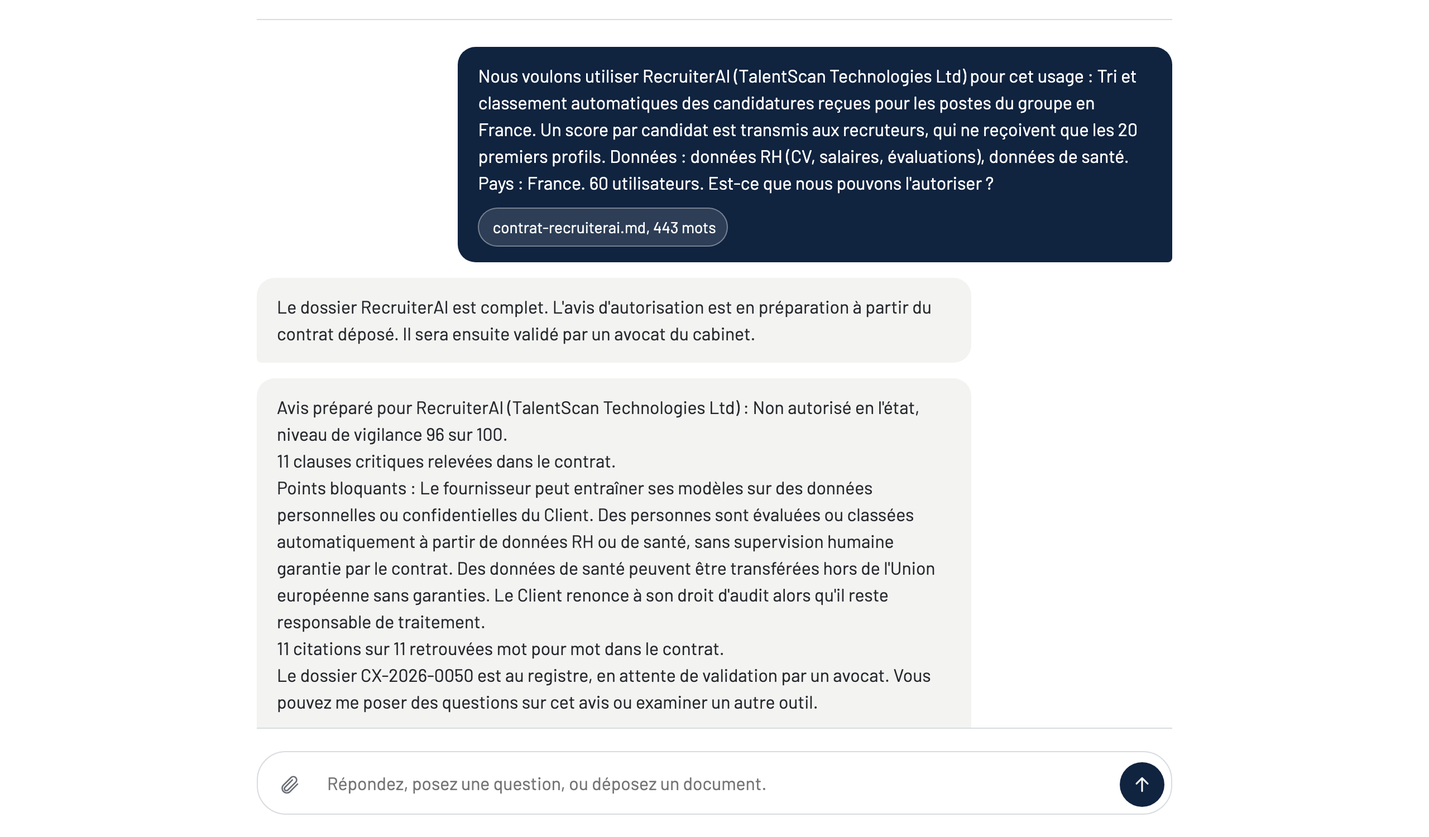
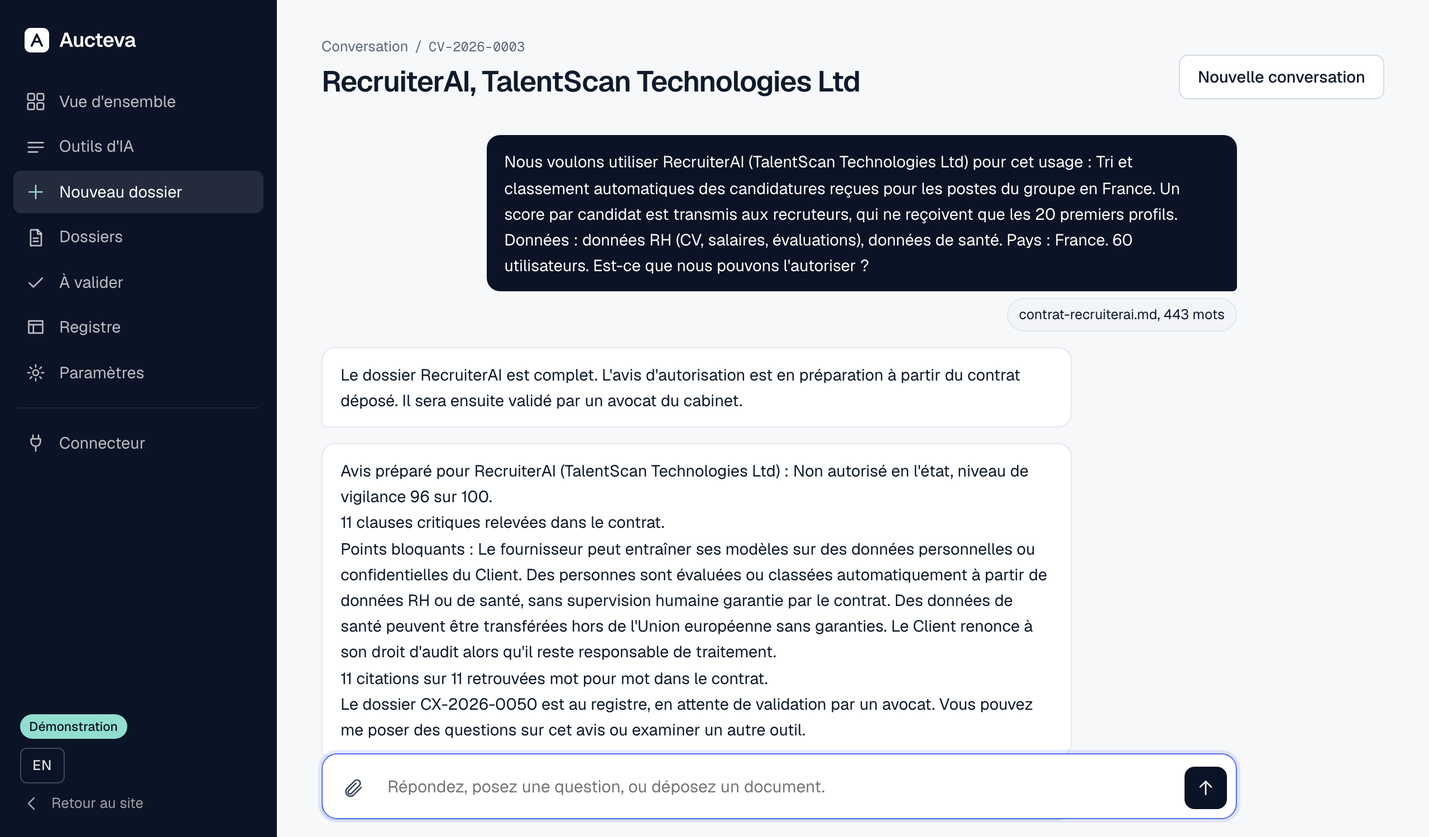
Decks et textes Agorize au nom d'Aucteva, captures de la nouvelle interface

diff --git a/deck/build.js b/deck/build.js
@@ -1,15 +1,15 @@
-// Deck « Custodix AI », Make AI Happen 2026 (KPMG), thème 3.
+// Deck « Aucteva » (anciennement Custodix AI), Make AI Happen 2026 (KPMG), thème 3.
 // Gabarit de cabinet : kicker + titre, navigation des sections en haut à droite, bandeau de pied avec logotype et numéro.
 // Formats : tableaux à filets, paragraphes à intertitres, encadrés, grille, captures de la démonstration, bouton vers la démo.
 // Aucune frise, aucune liste à puces ou à tirets, aucune icône. Un seul accent bleu nuit, pastilles sobres pour les trois issues.
-//   custodix-ai-oral.pptx    : 8 slides + 3 annexes (demi-finale)
-//   custodix-ai-agorize.pptx : 5 slides (limite du formulaire, business plan inclus)
+//   aucteva-oral.pptx    : 8 slides + 3 annexes (demi-finale)
+//   aucteva-agorize.pptx : 5 slides (limite du formulaire, business plan inclus)
 // NODE_PATH=$PWD/node_modules PPTX_SKILL=… node build.js
 const pptxgen = require("pptxgenjs");
 const fs = require("fs");
 const { applyTheme } = require(process.env.PPTX_SKILL + "/scripts/apply_theme.js");
 
-const BRAND = "Custodix AI";
+const BRAND = "Aucteva";
 const PAPER = "FFFFFF", INK = "26292E", MUTED = "6B6F76", LINE = "D9DBDF", NAVY = "10233F", SOFT = "F3F4F6", GREY = "9A9DA3";
 const GREEN = "2E5E3F", AMBER = "9A6B1E", BRICK = "8E3B2F";
 const SERIF = "Charter", BODY = "Barlow", SEMI = "Barlow SemiBold";
@@ -148,14 +148,14 @@ const ISSUES = [
   [AMBER, "Autorisé sous conditions", "des mesures ou un avenant sont nécessaires avant un déploiement élargi"],
   [BRICK, "Non autorisé en l'état", "le risque est trop élevé ou le contrat doit être modifié"],
 ];
-const POSITION = "Custodix AI ne remplace pas la gestion contractuelle ni l'avocat. Il prépare une décision d'usage, documentée et validée par un expert.";
+const POSITION = "Aucteva ne remplace pas la gestion contractuelle ni l'avocat. Il prépare une décision d'usage, documentée et validée par un expert.";
 const KPMG_PARAS = [
   ["Quatre expertises réunies", "juridique, fiscale, conformité et cybersécurité : les quatre regards d'un dossier d'autorisation, dans une même équipe."],
   ["Validation par des avocats", "l'avis engage une relecture et une validation humaines. C'est ce qui le distingue d'un questionnaire ou d'un inventaire."],
-  ["Intégration aux outils en place", "les contrats des grands comptes sont déjà centralisés dans leurs plateformes contractuelles. Custodix AI s'y branche, sans les remplacer."],
+  ["Intégration aux outils en place", "les contrats des grands comptes sont déjà centralisés dans leurs plateformes contractuelles. Aucteva s'y branche, sans les remplacer."],
   ["Déploiement multi-pays et accompagnement continu", "veille réglementaire, avenants, gouvernance et reporting, dans chaque pays où le groupe opère."],
 ];
-const KPMG_LINE = "Les plateformes contractuelles structurent les contrats. Custodix AI aide à décider comment un outil IA peut être utilisé.";
+const KPMG_LINE = "Les plateformes contractuelles structurent les contrats. Aucteva aide à décider comment un outil IA peut être utilisé.";
 const SERVICE = [
   ["Diagnostic initial", "Cartographie des outils IA déjà en usage dans le groupe et de leurs niveaux de risque. Un premier registre, en quelques semaines."],
   ["Autorisation continue", "Examen de chaque nouvel outil avant déploiement : contrat, cas d'usage, données. Un avis par outil, validé par un avocat."],
@@ -173,14 +173,14 @@ const PILOT = "Pilote proposé : trois mois, deux grands comptes, vingt outils e
 const SRC = "Source : Microsoft et LinkedIn, Work Trend Index 2024 : 78 % des utilisateurs d'IA au travail apportent leurs propres outils, sans validation de l'entreprise.";
 const CAP = {
   formulaire: "Le dossier déposé : outil, fournisseur, usage prévu, données concernées, contrat.",
-  examen: "L'examen, étape par étape : contrat, clauses, cas d'usage, RGPD et AI Act.",
-  dossier: "Le dossier d'autorisation : avis, niveau de vigilance, en attente de validation.",
-  valide: "Le même dossier une fois validé par l'avocat, avec l'identifiant de signature.",
-  risques: "Chaque risque cite la clause du contrat et l'article applicable.",
-  avenant: "L'avenant type généré à partir des clauses correctives, prêt à négocier.",
-  accueil: "L'accueil : on décrit l'outil, on dépose son contrat, l'assistant ne demande que ce qui manque.",
-  conversation: "La conversation : le dossier est déduit du contrat, l'avis arrive dans l'échange, le dossier est au registre.",
-  connecteur: "Le connecteur : chacun branche son propre assistant, les citations sont vérifiées par Custodix.",
+  examen: "L'analyse suit l'état réel du dossier : documents reçus, contenu extrait, lecture, vérification des citations.",
+  dossier: "Le dossier d'analyse : le contrat à gauche, les huit domaines de vigilance à droite, chaque passage cité surligné.",
+  valide: "Trois temps tracés : avis préparé par l'IA, validé par l'avocat, décision de l'entreprise.",
+  risques: "Chaque observation renvoie à sa clause et à sa ligne, avec ce qu'il faut vérifier et la clause corrective.",
+  avenant: "Le dossier de synthèse, exportable en PDF, avec l'avenant type prêt à négocier.",
+  accueil: "L'accueil : la promesse, et la vraie interface, calculée en direct sur un scénario.",
+  conversation: "La conversation : le dossier est déduit du contrat, l'avis arrive dans l'échange.",
+  connecteur: "Le connecteur : chacun branche son propre assistant, les citations sont vérifiées par Aucteva.",
 };
 const ENTREES = "Trois entrées : la conversation, le formulaire, ou son propre assistant par connecteur. Le contrat est lu en entier dans sa langue, chaque citation vérifiée mot pour mot ; barème, points bloquants et avis sont calculés par le cabinet. Testé sur 34 contrats réels : OpenAI, Mistral, Intercom, HubSpot, HireVue.";
 const examplesTable = (c, s, x, y, w, size = 11) => c.table(s, x, y, w, [w * 0.17, w * 0.52, w * 0.31], ["Outil", "Usage et données", "Avis"], EXAMPLES.map(([col, n, u, d, a]) => [n, `${u} (${d})`, [DOT(col), { text: a }]]), { size });
@@ -191,9 +191,9 @@ const cover = ({ add, T, rule, shot, foot }) => {
   T(s, "Make AI Happen, KPMG | Thématique 3 : cabinet d'avocats AI ready", { x: M, y: 0.8, w: 7, h: 0.3, fontSize: 11, color: MUTED });
   T(s, BRAND, { x: M, y: 1.9, w: 6.5, h: 1.1, fontFace: SERIF, fontSize: 56, color: INK });
   rule(s, M, 3.05, 1.5, NAVY, 1.5);
-  T(s, "Chaque IA passe par Custodix.", { x: M, y: 3.28, w: 6.5, h: 0.5, fontFace: SERIF, fontSize: 24, color: NAVY });
-  T(s, "Autorisation et gouvernance des outils d'intelligence artificielle en entreprise.", { x: M, y: 3.9, w: 5.8, h: 0.7, fontSize: 15, color: INK, lineSpacingMultiple: 1.3 });
-  T(s, "Un service conçu pour les directions juridiques, conformité, achats et IT.", { x: M, y: 4.62, w: 5.8, h: 0.6, fontSize: 13, color: MUTED, lineSpacingMultiple: 1.3 });
+  T(s, "Chaque outil d'IA.\nUne décision documentée.", { x: M, y: 3.25, w: 6.5, h: 0.95, fontFace: SERIF, fontSize: 24, color: NAVY, lineSpacingMultiple: 1.05 });
+  T(s, "Gouvernance juridique des outils d'intelligence artificielle en entreprise.", { x: M, y: 4.35, w: 5.8, h: 0.7, fontSize: 15, color: INK, lineSpacingMultiple: 1.3 });
+  T(s, "Un service conçu pour les directions juridiques, conformité, achats et IT.", { x: M, y: 5.05, w: 5.8, h: 0.6, fontSize: 13, color: MUTED, lineSpacingMultiple: 1.3 });
   T(s, "Préparé par Céline Lin et Tom Petit Vallois", { x: M, y: 6.3, w: 6, h: 0.3, fontSize: 12, color: INK });
   shot(s, "shots/dossier.png", 7.1, 1.9, 5.23, CAP.dossier);
   foot(s, "", 0);
@@ -225,7 +225,7 @@ const processus = ({ add, H2, LEAD, COL, table, callout, foot }, n) => {
   H2(s, "Aujourd'hui, l'autorisation d'un outil IA repose sur des échanges dispersés.", "Le processus actuel", "Problème");
   LEAD(s, "Achats, juridique, DPO et IT examinent le même dossier séparément. Il manque une vue commune, une traçabilité et une décision formalisée.", M, TOP, 9.5, 0.8, { fontSize: 14 });
   COL(s, "Ce qui change avec un service d'autorisation", M, 2.6, CW);
-  table(s, M, 3.0, CW, [CW * 0.18, CW * 0.41, CW * 0.41], ["", "Aujourd'hui", "Avec Custodix AI"], AVANT_APRES, { size: 11.5, rowH: 0.44 });
+  table(s, M, 3.0, CW, [CW * 0.18, CW * 0.41, CW * 0.41], ["", "Aujourd'hui", "Avec Aucteva"], AVANT_APRES, { size: 11.5, rowH: 0.44 });
   callout(s, M, 5.85, CW, 0.6, "Sans décision formalisée, l'outil est déployé sans réponse, ou refusé par prudence. Dans les deux cas, l'entreprise ne sait pas.", 12.5);
   foot(s, "", n);
   s.addNotes("Le processus actuel face au service : examen, traçabilité, décision, délai, suivi.");
@@ -237,7 +237,7 @@ const solution = ({ add, H2, COL, shot, table, callout, issue, foot }, n) => {
   const lw = 5.0, rx = M + lw + 0.45, rw = CW - lw - 0.45;
   const h = shot(s, "shots/examen.png", M, TOP, lw, CAP.examen);
   callout(s, M, TOP + h + 0.55, lw, BOT - (TOP + h + 0.55), POSITION, 12.5);
-  COL(s, "Ce que Custodix AI examine dans chaque contrat", rx, TOP, rw);
+  COL(s, "Ce qu'Aucteva examine dans chaque contrat", rx, TOP, rw);
   table(s, rx, TOP + 0.45, rw, [rw * 0.33, rw * 0.42, rw * 0.25], ["Sujet", "Ce qui est vérifié", "Base"], EXAMEN, { size: 9.5, headSize: 9, rowH: 0.3 });
   const iy = 5.55, iw = rw / 3;
   ISSUES.forEach(([c, l, d], i) => issue(s, rx + i * iw, iy, iw - 0.1, c, l, d, { size: 10.5, descSize: 9 }));
@@ -354,7 +354,7 @@ const problemeProcessus = ({ add, H2, LEAD, COL, paras, table, foot }, n) => {
   COL(s, "Quatre regards, en série, sur le même contrat", M, 2.95, lw);
   paras(s, M, 3.4, lw, 3.1, REGARDS, { size: 12 });
   COL(s, "Ce qui change avec un service d'autorisation", rx, TOP, rw);
-  table(s, rx, TOP + 0.45, rw, [rw * 0.2, rw * 0.4, rw * 0.4], ["", "Aujourd'hui", "Avec Custodix AI"], AVANT_APRES, { size: 10.5, rowH: 0.62 });
+  table(s, rx, TOP + 0.45, rw, [rw * 0.2, rw * 0.4, rw * 0.4], ["", "Aujourd'hui", "Avec Aucteva"], AVANT_APRES, { size: 10.5, rowH: 0.62 });
   foot(s, SRC, n);
   s.addNotes("Le problème et le processus actuel, en une slide.");
 };
@@ -394,7 +394,7 @@ const solutionAgorize = ({ add, H2, COL, shot, table, callout, issue, foot }, n)
   const lw = 5.0, rx = M + lw + 0.45, rw = CW - lw - 0.45;
   const h = shot(s, "shots/dossier.png", M, TOP, lw, CAP.dossier);
   callout(s, M, TOP + h + 0.55, lw, BOT - (TOP + h + 0.55), POSITION, 12.5);
-  COL(s, "Ce que Custodix AI examine dans chaque contrat", rx, TOP, rw);
+  COL(s, "Ce qu'Aucteva examine dans chaque contrat", rx, TOP, rw);
   table(s, rx, TOP + 0.45, rw, [rw * 0.33, rw * 0.42, rw * 0.25], ["Sujet", "Ce qui est vérifié", "Base"], EXAMEN, { size: 9.5, headSize: 9, rowH: 0.3 });
   const iy = 5.55, iw = rw / 3;
   ISSUES.forEach(([c, l, d], i) => issue(s, rx + i * iw, iy, iw - 0.1, c, l, d, { size: 10.5, descSize: 9 }));
@@ -403,7 +403,7 @@ const solutionAgorize = ({ add, H2, COL, shot, table, callout, issue, foot }, n)
 };
 
 (async () => {
-  await makeDeck("custodix-ai-oral.pptx", [cover, probleme, processus, solution, issuesSlide, kpmg, service, exemples, demoSlide, annexeRoute, annexeRisques, annexeEco], `${BRAND}, Make AI Happen 2026, thème 3, version orale`, ["Problème", "Solution", "Pourquoi KPMG", "Modèle de service", "Démonstration", "Annexes"]);
-  await makeDeck("custodix-ai-agorize.pptx", [cover, problemeProcessus, solutionAgorize, kpmgService, demoAgorize], `${BRAND}, Make AI Happen 2026, thème 3`, ["Problème", "Solution", "KPMG et modèle de service", "Démonstration"]);
+  await makeDeck("aucteva-oral.pptx", [cover, probleme, processus, solution, issuesSlide, kpmg, service, exemples, demoSlide, annexeRoute, annexeRisques, annexeEco], `${BRAND}, Make AI Happen 2026, thème 3, version orale`, ["Problème", "Solution", "Pourquoi KPMG", "Modèle de service", "Démonstration", "Annexes"]);
+  await makeDeck("aucteva-agorize.pptx", [cover, problemeProcessus, solutionAgorize, kpmgService, demoAgorize], `${BRAND}, Make AI Happen 2026, thème 3`, ["Problème", "Solution", "KPMG et modèle de service", "Démonstration"]);
   fs.writeFileSync("link-positions.json", JSON.stringify(positions, null, 2));
 })();

diff --git a/deck/shots.js b/deck/shots.js
@@ -1,66 +1,68 @@
-// Captures de la démonstration en ligne pour le deck, en 2x. NODE_PATH=~/gererseul-guide/node_modules node shots.js
-// Le pont (lecture intégrale) doit être en ligne : la conversation et l'examen attendent l'avis jusqu'à trois minutes.
+// Captures de la démonstration en ligne (Aucteva) pour les decks, en 2x. NODE_PATH=~/gererseul-guide/node_modules node shots.js
+// Dossier de référence : RecruiterAI ouvert par conversation (CV-2026-0003 → CX-2026-0050), lu en intégralité.
+// L'examen en cours se capture sur une lecture intégrale lancée depuis la page démo (le lecteur doit être en ligne).
 const { chromium } = require("playwright");
 const URL = "https://custodix-ai.gererseul-avis-worker.workers.dev/";
-const VP = { width: 1280, height: 750 }; // 1280x750 → ratio 1,707
+const CONV = "CV-2026-0003", ID = "CX-2026-0050";
+const VP = { width: 1280, height: 750 }; // ratio 1,707, celui des cadres du deck
 (async () => {
   const browser = await chromium.launch();
   const page = await browser.newPage({ viewport: VP, deviceScaleFactor: 2 });
-  await page.goto(URL + "#/", { waitUntil: "networkidle" });
-  await page.waitForTimeout(1200);
+  await page.addInitScript(() => { try { localStorage.setItem("aucteva.lang", "fr"); } catch {} });
+  const go = async (h, wait = 1500) => { await page.goto(URL + h, { waitUntil: "networkidle" }); await page.waitForTimeout(wait); };
+
+  await go("#/", 1800);
   await page.screenshot({ path: "shots/accueil.png" });
 
-  // Conversation : l'exemple RecruiterAI lance un dialogue, on attend l'avis.
-  await page.getByRole("button", { name: "RecruiterAI" }).first().click();
-  await page.waitForURL(/#\/conversation/, { timeout: 15000 });
-  await page.waitForTimeout(1500);
-  await page.screenshot({ path: "shots/conversation-attente.png" });
-  await page.locator(".dossier-card").first().waitFor({ timeout: 180000 });
-  await page.waitForTimeout(600);
-  await page.locator(".dossier-card").first().scrollIntoViewIfNeeded();
-  await page.waitForTimeout(300);
+  await go(`#/app/conversation/${CONV}`, 2000);
+  await page.locator(".dcard").first().scrollIntoViewIfNeeded();
+  await page.waitForTimeout(400);
   await page.screenshot({ path: "shots/conversation.png" });
 
-  // Formulaire : RecruiterAI en lecture intégrale.
-  await page.goto(URL + "#/analyse", { waitUntil: "networkidle" });
-  await page.waitForTimeout(800);
-  await page.getByRole("button", { name: "Charger RecruiterAI" }).click();
-  await page.waitForTimeout(500);
-  await page.screenshot({ path: "shots/formulaire.png" });
-  await page.locator("input[name=mode][value=claude]").check();
-  await page.getByRole("button", { name: "Lancer l'examen" }).click();
-  await page.waitForURL(/#\/en-cours/, { timeout: 15000 });
-  await page.waitForTimeout(4000);
-  await page.screenshot({ path: "shots/examen.png" });
-  await page.waitForURL(/#\/rapport/, { timeout: 180000 });
-  await page.waitForTimeout(900);
+  // Analyse : contrat à gauche, domaines à droite, premier passage critique mis en évidence.
+  await go(`#/app/dossier/${ID}`, 2500);
   await page.screenshot({ path: "shots/dossier.png" });
-  // Risques identifiés : capture de la section
-  const risques = page.locator("section", { hasText: "Risques identifiés" }).first();
-  const rb = await risques.boundingBox();
-  await page.screenshot({ path: "shots/risques.png", clip: { x: 0, y: rb.y, width: VP.width, height: VP.height }, fullPage: true });
-  // Validation par un avocat
-  await page.locator("#s-name").fill("Marie Dupont");
-  await page.locator("#s-role").selectOption("Avocat");
-  await page.getByRole("button", { name: "Valider l'avis" }).click();
+  // Une observation dépliée, reliée à son passage, avec ce qu'il faut vérifier et la clause corrective.
+  const transfer = page.locator('.dim[data-dim="transfer"]');
+  if (!(await transfer.evaluate((e) => e.classList.contains("is-open")))) await transfer.locator("> button").click();
+  const go2 = transfer.locator("[data-go]").first();
+  if (await go2.count()) await go2.click();
+  await transfer.locator("details summary").first().click().catch(() => {});
   await page.waitForTimeout(900);
-  await page.evaluate(() => window.scrollTo(0, 0)); await page.waitForTimeout(300);
-  await page.screenshot({ path: "shots/dossier-valide.png" }); // l'en-tête porte « Avis validé par … »
-  const val = page.locator("#validation");
-  await val.scrollIntoViewIfNeeded();
-  const vb = await val.boundingBox(); const vy = await page.evaluate(() => window.scrollY);
-  await page.screenshot({ path: "shots/validation.png", clip: { x: 0, y: Math.max(0, vb.y + vy - 420), width: VP.width, height: VP.height }, fullPage: true });
-  // Avenant type
-  await page.getByRole("button", { name: "Générer l'avenant type" }).click();
-  await page.waitForTimeout(500);
-  const av = page.locator("#avenant-section");
-  await av.scrollIntoViewIfNeeded();
-  const ab = await av.boundingBox(); const ay = await page.evaluate(() => window.scrollY);
-  await page.screenshot({ path: "shots/avenant.png", clip: { x: 0, y: ab.y + ay - 20, width: VP.width, height: VP.height }, fullPage: true });
-  // Connecteur
-  await page.goto(URL + "#/connecteur", { waitUntil: "networkidle" });
-  await page.waitForTimeout(800);
+  await transfer.evaluate((e) => { const sc = document.scrollingElement; const r = e.getBoundingClientRect(); sc.scrollTo(0, sc.scrollTop + r.top - 120); });
+  await page.waitForTimeout(700);
+  await page.screenshot({ path: "shots/risques.png" });
+
+  // Dossier de synthèse avec l'avenant type.
+  await go(`#/app/dossier/${ID}/synthese`, 1800);
+  await page.click("#av-show").catch(() => {});
+  await page.waitForTimeout(400);
+  await page.locator("#av").evaluate((e) => { const sc = document.scrollingElement; sc.scrollTo(0, sc.scrollTop + e.getBoundingClientRect().top - 160); });
+  await page.waitForTimeout(400);
+  await page.screenshot({ path: "shots/avenant.png" });
+
+  // Validation par l'avocat, puis décision d'utilisation (si ce n'est pas déjà fait).
+  await go(`#/app/dossier/${ID}/decision`, 1800);
+  if (await page.locator("#vf").count()) { await page.fill("#v-n", "Marie Dupont"); await page.click("#vf button[type=submit]"); await page.waitForTimeout(2500); }
+  if (await page.locator("#df").count()) { await page.fill("#d-n", "Claire Martin"); await page.fill("#d-f", "Directrice juridique"); await page.check('input[name=dd][value=refuse]', { force: true }); await page.fill("#d-m", "Refus en l'état. Réexamen possible après avenant sur l'entraînement des modèles, la supervision humaine et les transferts hors Union européenne."); await page.click("#df button[type=submit]"); await page.waitForTimeout(2500); }
+  await go(`#/app/dossier/${ID}/decision`, 1800); // recharge sans la notification
+  await page.locator(".wfcards").evaluate((e) => { const sc = document.scrollingElement; sc.scrollTo(0, sc.scrollTop + e.getBoundingClientRect().top - 24); });
+  await page.waitForTimeout(400);
+  await page.screenshot({ path: "shots/validation.png" });
+  await go(`#/app/dossier/${ID}`, 2500);
+  await page.screenshot({ path: "shots/dossier-valide.png" });
+
+  await go("#/app/registre", 2000);
+  await page.screenshot({ path: "shots/registre.png" });
+  await go("#/app/connecteur", 1200);
   await page.screenshot({ path: "shots/connecteur.png" });
+
+  // Examen en cours : lecture intégrale de RecruiterAI lancée depuis la démonstration.
+  await go("#/demo", 1500);
+  await page.click('[data-run="recruiter"][data-mode="claude"]');
+  await page.waitForURL(/#\/app\/en-cours\//, { timeout: 20000 });
+  await page.waitForTimeout(9000);
+  await page.screenshot({ path: "shots/examen.png" });
   await browser.close();
   console.log("ok shots/");
-})();
+})().catch((e) => { console.error(e.message); process.exit(1); });

diff --git a/cover.js b/cover.js
@@ -8,8 +8,8 @@ function wordmark(text, file, ps, size) {
   return { d: parts.join(""), adv: x };
 }
 const CH = "/System/Library/Fonts/Supplemental/Charter.ttc";
-const logo = wordmark("Custodix AI", CH, "Charter-Roman", 300);
-const slogan = wordmark("Chaque IA passe par Custodix.", CH, "Charter-Roman", 84);
+const logo = wordmark("Aucteva", CH, "Charter-Roman", 300);
+const slogan = wordmark("Chaque outil d'IA. Une décision documentée.", CH, "Charter-Roman", 84);
 const sub = wordmark("Autorisation et gouvernance des outils d'intelligence artificielle en entreprise", os.homedir() + "/Library/Fonts/Barlow-Regular.ttf", null, 50);
 const y0 = 500;
 const svg = `<svg xmlns="http://www.w3.org/2000/svg" width="${W}" height="${H}" viewBox="0 0 ${W} ${H}"><rect width="${W}" height="${H}" fill="#FFFFFF"/>
@@ -17,4 +17,4 @@ const svg = `<svg xmlns="http://www.w3.org/2000/svg" width="${W}" height="${H}" 
 <rect x="${W / 2 - 60}" y="${y0 + 70}" width="120" height="4" fill="${NAVY}"/>
 <g transform="translate(${(W - slogan.adv) / 2} ${y0 + 190})" fill="${NAVY}">${slogan.d}</g>
 <g transform="translate(${(W - sub.adv) / 2} ${y0 + 290})" fill="${GREY}">${sub.d}</g></svg>`;
-sharp(Buffer.from(svg)).resize(1024, 576).png().toFile("custodix-ai-1024x576.png").then(() => console.log("ok custodix-ai-1024x576.png"));
+sharp(Buffer.from(svg)).resize(1024, 576).png().toFile("aucteva-1024x576.png").then(() => console.log("ok aucteva-1024x576.png"));

diff --git a/deck/build-images.js b/deck/build-images.js
@@ -4,7 +4,7 @@ const fs = require("fs");
 const pres = new pptxgen();
 pres.layout = "LAYOUT_WIDE";
 pres.author = "Céline Lin, Tom Petit Vallois";
-pres.title = "Custodix AI, Make AI Happen 2026, thème 3";
+pres.title = "Aucteva, Make AI Happen 2026, thème 3";
 const URL = "custodix-ai.gererseul-avis-worker.workers.dev";
 const notes = JSON.parse(fs.readFileSync("notes.json", "utf8"));
 for (let i = 1; i <= 5; i++) {
@@ -19,4 +19,4 @@ for (let i = 1; i <= 5; i++) {
     s.addText([{ text: URL, options: { hyperlink: { url: "https://" + URL + "/" }, color: "10233F", underline: { style: "sng" } } }], { x: b.x, y: b.y + b.h + 0.08, w: b.w, h: 0.25, isTextBox: true, margin: 0, fontFace: "Arial", fontSize: 9, align: "center", valign: "top" });
   }
 }
-pres.writeFile({ fileName: "custodix-ai-agorize-images.pptx" }).then(() => console.log("ok custodix-ai-agorize-images.pptx"));
+pres.writeFile({ fileName: "aucteva-agorize-images.pptx" }).then(() => console.log("ok aucteva-agorize-images.pptx"));

diff --git a/textes-agorize.md b/textes-agorize.md
@@ -2,23 +2,23 @@
 
 ## Nom de la participation (30 caractères max)
 
-Custodix AI
+Aucteva
 
 ## Description (255 caractères max)
 
-Custodix AI : chaque IA passe par Custodix. Pour chaque outil d'IA, le contrat, le cas d'usage et les données sont examinés au regard du RGPD et de l'AI Act. Un avis d'autorisation documenté, traçable, validé par un avocat KPMG.
+Aucteva : chaque outil d'IA, une décision documentée. Pour chaque outil d'IA, le contrat, le cas d'usage et les données sont examinés au regard du RGPD et de l'AI Act. Un avis d'autorisation documenté, traçable, validé par un avocat KPMG.
 
 ## Image
 
-custodix-ai-1024x576.png (nom, slogan, sous-titre, fond blanc).
+aucteva-1024x576.png (nom, slogan, sous-titre, fond blanc).
 
 ## Résumé du projet
 
 Les entreprises adoptent l'intelligence artificielle sans maîtriser ses conditions d'usage. Chaque nouvel outil soulève les mêmes questions : quelles données sont utilisées, par qui, où sont-elles conservées, le fournisseur peut-il entraîner ses modèles sur elles, qui possède les résultats, qui répond d'une erreur, et quelles obligations en découlent au titre du RGPD et de l'AI Act. Aujourd'hui, achats, juridique, DPO et IT examinent le même dossier séparément. Il manque une vue commune, une traçabilité et une décision formalisée.
 
-Custodix AI est un service d'autorisation des outils d'IA proposé par un cabinet d'avocats AI ready, KPMG Avocats. Avant d'autoriser un outil, l'entreprise dépose le contrat ou les conditions du fournisseur, la description de l'outil, le cas d'usage, les données concernées, les pays et les entités. Custodix AI examine les clauses critiques, les croise avec le cas d'usage et la réglementation, qualifie le risque et prépare un avis d'autorisation : autorisé, autorisé sous conditions, ou non autorisé en l'état. Chaque avis mentionne les clauses analysées, les risques identifiés, les obligations applicables, les mesures recommandées et, si nécessaire, un projet d'avenant. Un avocat du cabinet relit, décide et valide. L'avis entre alors dans le registre des autorisations de l'entreprise.
+Aucteva est un service d'autorisation des outils d'IA proposé par un cabinet d'avocats AI ready, KPMG Avocats. Avant d'autoriser un outil, l'entreprise dépose le contrat ou les conditions du fournisseur, la description de l'outil, le cas d'usage, les données concernées, les pays et les entités. Aucteva examine les clauses critiques, les croise avec le cas d'usage et la réglementation, qualifie le risque et prépare un avis d'autorisation : autorisé, autorisé sous conditions, ou non autorisé en l'état. Chaque avis mentionne les clauses analysées, les risques identifiés, les obligations applicables, les mesures recommandées et, si nécessaire, un projet d'avenant. Un avocat du cabinet relit, décide et valide. L'avis entre alors dans le registre des autorisations de l'entreprise.
 
-Custodix AI ne remplace pas la gestion contractuelle ni l'avocat. Les plateformes contractuelles structurent les contrats ; Custodix AI aide à décider comment un outil IA peut être utilisé, et s'appuie sur les contrats déjà centralisés.
+Aucteva ne remplace pas la gestion contractuelle ni l'avocat. Les plateformes contractuelles structurent les contrats ; Aucteva aide à décider comment un outil IA peut être utilisé, et s'appuie sur les contrats déjà centralisés.
 
 Le modèle de service est progressif : diagnostic initial du parc d'outils IA, autorisation continue des nouveaux outils, accompagnement contractuel (avenants) et suivi de gouvernance (registre, revue périodique, reporting). Un pilote de trois mois avec deux grands comptes permet de valider le barème, les modalités et la tarification avec KPMG Avocats.
 
@@ -28,6 +28,6 @@ Une démonstration en ligne examine n'importe quel contrat d'outil IA, en conver
 
 1. Renommer la participation (créée sous le nom Boussole) : nom, description et image ci-dessus.
 2. Inviter Céline dans l'équipe (onglet Membres, bouton Gérer) : 2 membres minimum.
-3. Déposer la présentation : deck/custodix-ai-agorize-images.pptx (rendu garanti) ou deck/custodix-ai-agorize.pdf. Le deck de 8 slides avec annexes (custodix-ai-oral.pdf) est pour la demi-finale.
+3. Déposer la présentation : deck/aucteva-agorize-images.pptx (rendu garanti) ou deck/aucteva-agorize.pdf. Le deck de 8 slides avec annexes (aucteva-oral.pdf) est pour la demi-finale.
 4. Chaque membre dépose son CV en PDF, coche l'accord de consultation du CV par KPMG, renseigne son école.
 5. Soumettre, ou laisser la soumission automatique à la fin de l'étape une fois la participation à 100 %.

diff --git a/README.md b/README.md
@@ -1,6 +1,6 @@
-# Custodix AI, Make AI Happen 2026 (KPMG), thème 3
+# Aucteva (anciennement Custodix AI), Make AI Happen 2026 (KPMG), thème 3
 
-Chaque IA passe par Custodix. Autorisation et gouvernance des outils d'intelligence artificielle en entreprise.
+Chaque outil d'IA, une décision documentée. Gouvernance juridique des outils d'intelligence artificielle en entreprise.
 Projet de Céline Lin et Tom Petit Vallois, M2 Innovation, Management des Technologies et Entrepreneuriat,
 Paris 1 Panthéon-Sorbonne. A remplacé « Boussole » (~/kpmg-make-ai-happen) le 5 novembre 2026, puis renommé
 de Kleros AI en Custodix AI le même soir, avec un ton de cabinet d'avocats (avis, qualification du risque, validation par un avocat).
